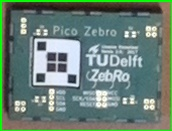
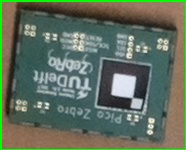
working step 3 for determing angle in calculations not with pixels yet

diff --git a/PicoZebroDemo/PZDemo_orient3.py b/PicoZebroDemo/PZDemo_orient3.py
@@ -69,9 +69,9 @@ rawCapture = PiRGBArray(camera, size=(1920, 1088))
 
 #Standard hsv color values. These are obtained through code converter.py
 green = [([40,33,40],[92,153,255])] #=green
-black = [([0,0,0],[179,255,80])] #=black
+black = [([0,0,0],[179,255,90])] #=black
 white = [([0,0,230],[179,255,255])] #=white
-white2 = [([0,0,245],[179,255,255])] #=white2
+white2 = [([0,0,240],[179,255,255])] #=white2
 white3 = [([200,200,200],[255,255,255])] #white bgr
 
 
@@ -142,7 +142,7 @@ for frame in camera.capture_continuous(rawCapture, format="bgr", use_video_port=
             
         Zebro_edges = cv2.Canny(Zebro_erosion, 100, 200, apertureSize = 3)
 #Debugging
-     #   cv2.imshow("edges Zebro",Zebro_edges)
+        cv2.imshow("edges Zebro",Zebro_edges)
 
         #Function for finding larges contour in image Zebro
         (_,contours2,hierarchy2) = cv2.findContours(Zebro_edges,cv2.RETR_TREE,cv2.CHAIN_APPROX_SIMPLE) # Find contours with hierarchy
@@ -159,13 +159,14 @@ for frame in camera.capture_continuous(rawCapture, format="bgr", use_video_port=
             # After random testing these where the values that kind of worked for area for QR
             # This still isn't perfect
             #if w > 33 and h >33 and w < 70 and h < 70:     For 1280, 720
-            if w > 20 and h > 20 and w < 50 and h < 50:
+            if w > 20 and h > 20 and w < 65 and h < 75:
+                print(w,h)
                 y = y-20
                 x = x-20
                 h=h+30
                 w=w+30
                 QR_CODE = Zebro_res[y:y+h, x:x+w]
-               # cv2.imshow("QR_CODE LargestContour", QR_CODE)
+                cv2.imshow("QR_CODE LargestContour", QR_CODE)
                 cv2.imwrite("Pico/QR_CODE.jpg", QR_CODE)
         except IndexError:
             pass
@@ -176,13 +177,13 @@ for frame in camera.capture_continuous(rawCapture, format="bgr", use_video_port=
 # From here on out it is determing angle and with that direction
 
     # Pre found images for now for testing
-    QR_image = cv2.imread("Pico/QR_CODE2.jpg", 1)
+    QR_image = cv2.imread("Pico/QR_CODE4.jpg", 1)
 
     # Making light levels less invluential
     # It takes the RGB it sees and adapts the light level of it
     QR_lab = cv2.cvtColor(QR_image, cv2.COLOR_BGR2LAB)
     QR_l,QR_a,QR_b = cv2.split(QR_lab)
-    QR_clahe = cv2.createCLAHE(clipLimit=2.0, tileGridSize=(2,2))
+    QR_clahe = cv2.createCLAHE(clipLimit=2.0, tileGridSize=(1,1))
     QR_cl = QR_clahe.apply(QR_l)
     QR_limg = cv2.merge((QR_cl,QR_a,QR_b))
     QR_final = cv2.cvtColor(QR_limg, cv2.COLOR_LAB2BGR)
@@ -272,8 +273,8 @@ for frame in camera.capture_continuous(rawCapture, format="bgr", use_video_port=
         box_new = cv2.boxPoints(rect_new)
         box_new = np.int0(cv2.boxPoints(rect_new))
         
-        P_W_Pixel = int(P_W*0.10)
-        P_H_Pixel = int(P_H*0.10)
+        P_W_Pixel = int(P_W*0.15)
+        P_H_Pixel = int(P_H*0.15)
         
         Pixel0 = (box_new[0,0],box_new[0,1])
         Pixel1 = (box_new[1,0],box_new[1,1])
@@ -314,6 +315,8 @@ for frame in camera.capture_continuous(rawCapture, format="bgr", use_video_port=
         QR_Area_Orientation_1 = QR_image[QR_y_1:QR_y_1+P_H_Pixel,QR_x_1:QR_x_1+P_W_Pixel]
         QR_Area_Orientation_2 = QR_image[QR_y_2:QR_y_2+P_H_Pixel,QR_x_2:QR_x_2+P_W_Pixel]
         QR_Area_Orientation_3 = QR_image[QR_y_3:QR_y_3+P_H_Pixel,QR_x_3:QR_x_3+P_W_Pixel]
+
+    #From here
         
         QR_Orientation_hsv_0 = cv2.cvtColor(QR_Area_Orientation_0, cv2.COLOR_BGR2GRAY)
         QR_Orientation_hsv_0 = cv2.cvtColor(QR_Area_Orientation_0, cv2.COLOR_BGR2HSV)
@@ -338,6 +341,8 @@ for frame in camera.capture_continuous(rawCapture, format="bgr", use_video_port=
         white_pixel2 = cv2.inRange(QR_Orientation_hsv_2,lower,upper)
         white_pixel3 = cv2.inRange(QR_Orientation_hsv_3,lower,upper)
 
+    # TO here it is going wrong. Only here for step 3.
+
         if Do_once ==1:
             print(abs(rect[2]))
             print("Found White on pixel 0")
@@ -352,6 +357,24 @@ for frame in camera.capture_continuous(rawCapture, format="bgr", use_video_port=
             print("Found White on pixel 3")
             white_pixel3 = cv2.countNonZero(white_pixel3)
             print(white_pixel3)
+
+            if white_pixel0 > white_pixel1 and white_pixel0 > white_pixel2 and white_pixel0 > white_pixel3:
+                degree = abs(rect[2])
+                print("PIXEL 000000")
+                print (degree)
+            if white_pixel1 > white_pixel0 and white_pixel1 > white_pixel2 and white_pixel1 > white_pixel3:
+                degree = 270 + abs(rect[2])
+                print("PIXEL 1111111")
+                print (degree)
+            if white_pixel2 > white_pixel0 and white_pixel2 > white_pixel1 and white_pixel2 > white_pixel3:
+                degree = 180 + abs(rect[2])
+                print("PIXEL 22222222")
+                print (degree)
+            if white_pixel3 > white_pixel0 and white_pixel3 > white_pixel1 and white_pixel3 > white_pixel2:
+                degree = 90 + abs(rect[2])
+                print("PIXEL 33333333")
+                print (degree)
+            
             Do_once = 2
  
         #draw both cantours. The one around the QR code and the one were the white pixel is determined out of.
@@ -361,6 +384,7 @@ for frame in camera.capture_continuous(rawCapture, format="bgr", use_video_port=
         cv2.drawContours(QR_image,[QR_square_2_test],0,(0,191,0),2)
         cv2.drawContours(QR_image,[QR_square_3_test],0,(0,191,0),2)
         # Draw a diagonal blue line with thickness of 2 px for checking where white pixel is.
+        cv2.line(QR_image,(box_new[0,0],box_new[0,1]),(box_new[2,0],box_new[2,1]),(255,191,0),2)
         cv2.line(QR_image,(QR_square_0_test[0,0],QR_square_0_test[0,1]),(QR_square_0_test[2,0],QR_square_0_test[2,1]),(255,191,0),2)
         cv2.line(QR_image,(QR_square_1_test[0,0],QR_square_1_test[0,1]),(QR_square_1_test[2,0],QR_square_1_test[2,1]),(255,191,0),2)
         cv2.line(QR_image,(QR_square_2_test[0,0],QR_square_2_test[0,1]),(QR_square_2_test[2,0],QR_square_2_test[2,1]),(255,191,0),2)
